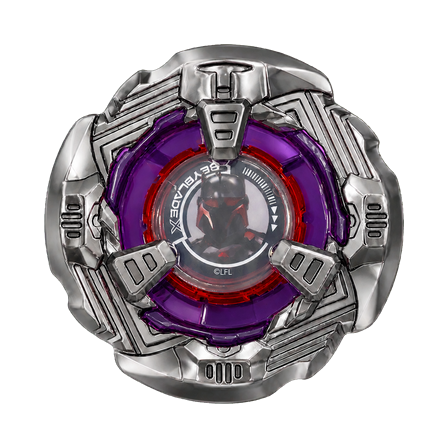
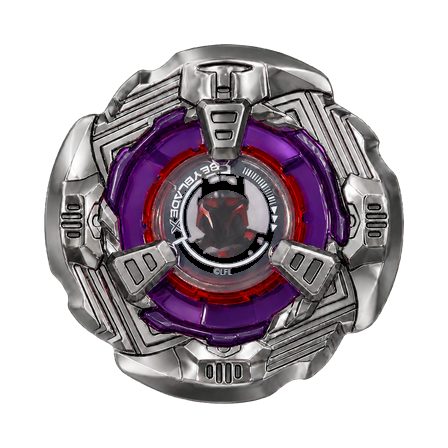
fix: sharpen Moff Gideon gear chip

Changed region(s): [[0.375, 0.375, 0.625, 0.625]]

diff --git a/index.html b/index.html
@@ -484,14 +484,14 @@
         "#app/services": "./src/app-services.js?v=20260714-scroll-affordance-overlay",
         "#app/markup-core": "./src/markup-core.js?v=20260714-scroll-affordance-overlay",
         "#app/anime-core": "./src/anime-core.js?v=20260720-burst-airdate-notes",
-        "#app/data-store": "./src/data-store.js?v=20260810-x-variant-generated-fronts-4",
+        "#app/data-store": "./src/data-store.js?v=20260810-x-moff-gideon-gear-chip-vivid",
         "#app/search-data-decoder": "./src/search-data-decoder.js?v=20260720-burst-airdate-notes",
         "#app/ui-core": "./src/ui-core.js?v=20260731-mobile-highlight-fix",
         "#app/release-core": "./src/release-core.js?v=20260731-mobile-highlight-fix",
         "#app/scroll-affordance": "./src/scroll-affordance.js?v=20260719-dropdown-shadow-mounted-label",
         "#app/search-core": "./src/search-core.js?v=20260717-dead-code-cleanup",
         "#app/search-engine": "./src/search-engine.js?v=20260731-mobile-highlight-fix",
-        "#app/catalog-model": "./src/catalog-model.js?v=20260810-x-variant-generated-fronts-4",
+        "#app/catalog-model": "./src/catalog-model.js?v=20260810-x-moff-gideon-gear-chip-vivid",
         "#app/collection-view": "./src/collection-view.js?v=20260731-mobile-highlight-fix",
         "#app/catalog-view": "./src/catalog-view.js?v=20260717-dead-code-cleanup",
         "#app/route-parser": "./src/route-parser.js?v=20260714-scroll-affordance-overlay",
@@ -500,7 +500,7 @@
         "#app/search-controller": "./src/search-controller.js?v=20260714-scroll-affordance-overlay",
         "#app/search-help-controller": "./src/search-help-controller.js?v=20260717-dead-code-cleanup",
         "#app/detail-view": "./src/detail-view.js?v=20260803-modal-tag-wheel-edge",
-        "#app/image-preview": "./src/image-preview.js?v=20260810-x-variant-generated-fronts-4",
+        "#app/image-preview": "./src/image-preview.js?v=20260810-x-moff-gideon-gear-chip-vivid",
         "#app/modal-context": "./src/modal-context.js?v=20260714-scroll-affordance-overlay",
         "#app/style-loader": "./src/style-loader.js?v=20260804-mobile-modal-scrollbar-centering",
         "#app/feature-loaders": "./src/feature-loaders.js?v=20260717-dead-code-cleanup",

diff --git a/src/data-store.js b/src/data-store.js
@@ -8,7 +8,7 @@ const bookItems = [];
 const gameItems = [];
 const animeInfo = { title: "", overview: [], characters: [], episodes: [] };
 const searchIndexItems = [];
-const X_ASSET_CACHE_VERSION = "20260810-x-variant-generated-fronts-4";
+const X_ASSET_CACHE_VERSION = "20260810-x-moff-gideon-gear-chip-vivid";
 
 const versionAssetUrl = source => {
   const value = String(source || "");

diff --git a/scripts/normalize-x-bey-front-images.py b/scripts/normalize-x-bey-front-images.py
@@ -16,7 +16,7 @@ from PIL import Image
 
 CONFIG_PATH = Path("data/source/x-bey-primary-images.json")
 ANGLE_CONFIG_PATH = Path("data/source/x-bey-angle-corrections.json")
-CONFIG_VERSION = "20260810-x-variant-generated-fronts-4"
+CONFIG_VERSION = "20260810-x-moff-gideon-gear-chip-vivid"
 CANVAS_SIZE = 448
 TARGET_FOREGROUND_SIZE = 360
 ALPHA_THRESHOLD = 3

diff --git a/scripts/record-x-image-alpha-review.py b/scripts/record-x-image-alpha-review.py
@@ -14,7 +14,7 @@ from PIL import Image
 CANVAS_SIZE = 448
 MIN_MARGIN = 6
 MAX_FOREGROUND_SIZE = CANVAS_SIZE - MIN_MARGIN * 2
-REVIEW_VERSION = "20260810-x-variant-generated-fronts-4"
+REVIEW_VERSION = "20260810-x-moff-gideon-gear-chip-vivid"
 
 
 def parse_args() -> argparse.Namespace:

diff --git a/scripts/build-x-bey-angle-corrections.py b/scripts/build-x-bey-angle-corrections.py
@@ -115,7 +115,7 @@ SUPPLIED_FRONT_IDS = {
     "BEY-X-UX-19-BULLET-GRIFFON-H",
     "BEY-X-UX-20-GLORY-VALKYRIE-LF",
 }
-CONFIG_VERSION = "20260810-x-variant-generated-fronts-4"
+CONFIG_VERSION = "20260810-x-moff-gideon-gear-chip-vivid"
 
 
 def parse_args() -> argparse.Namespace:
